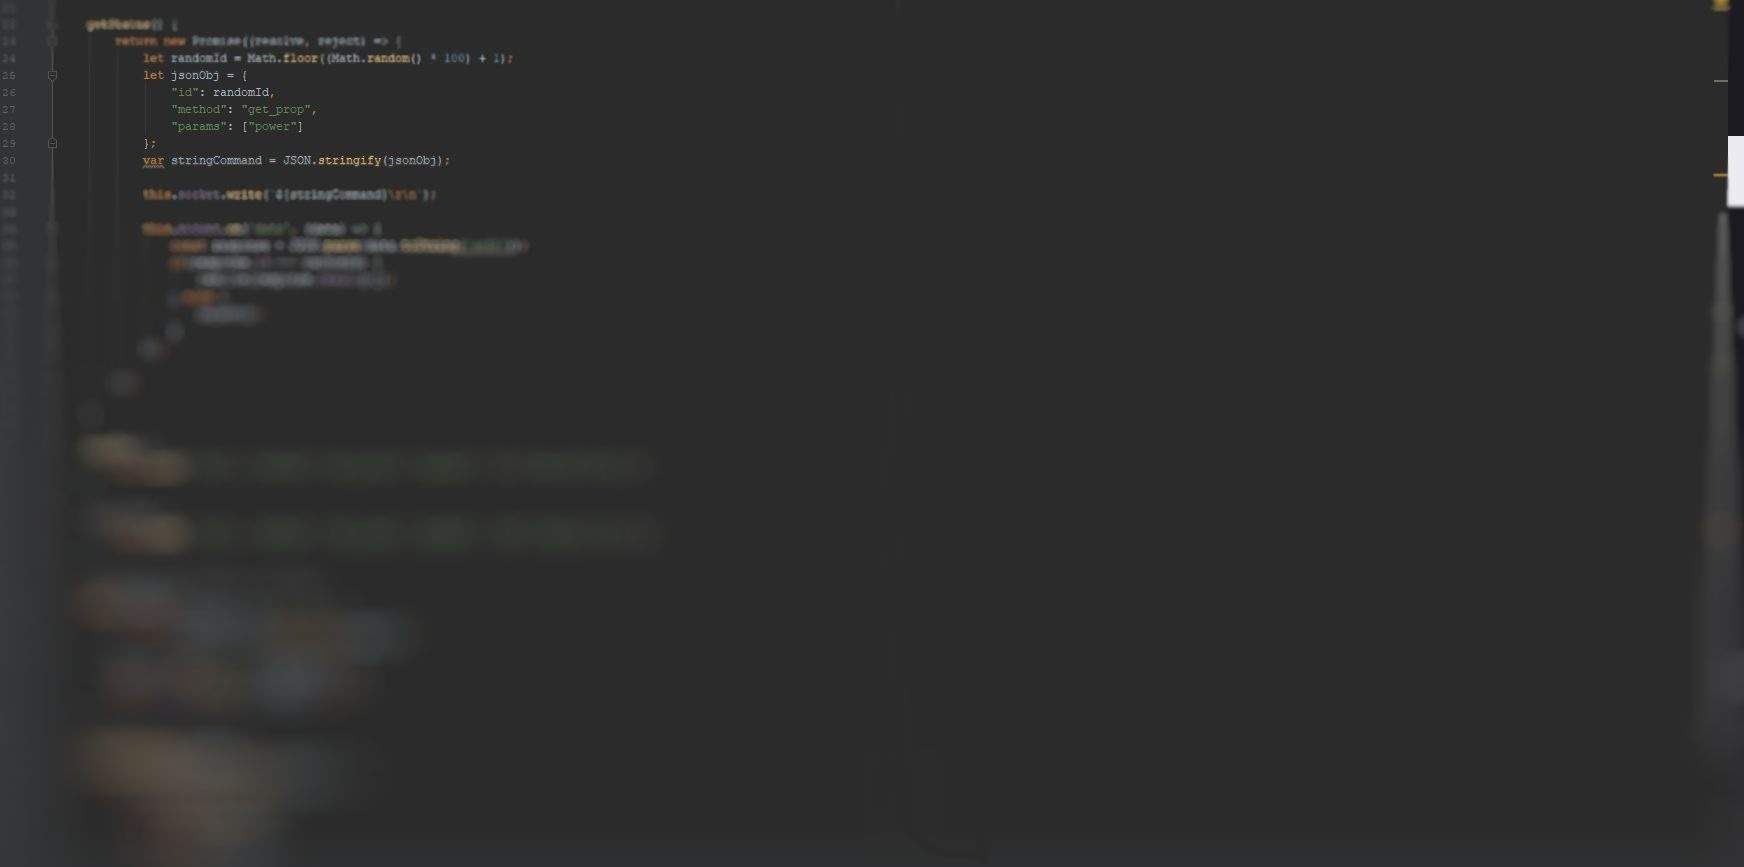
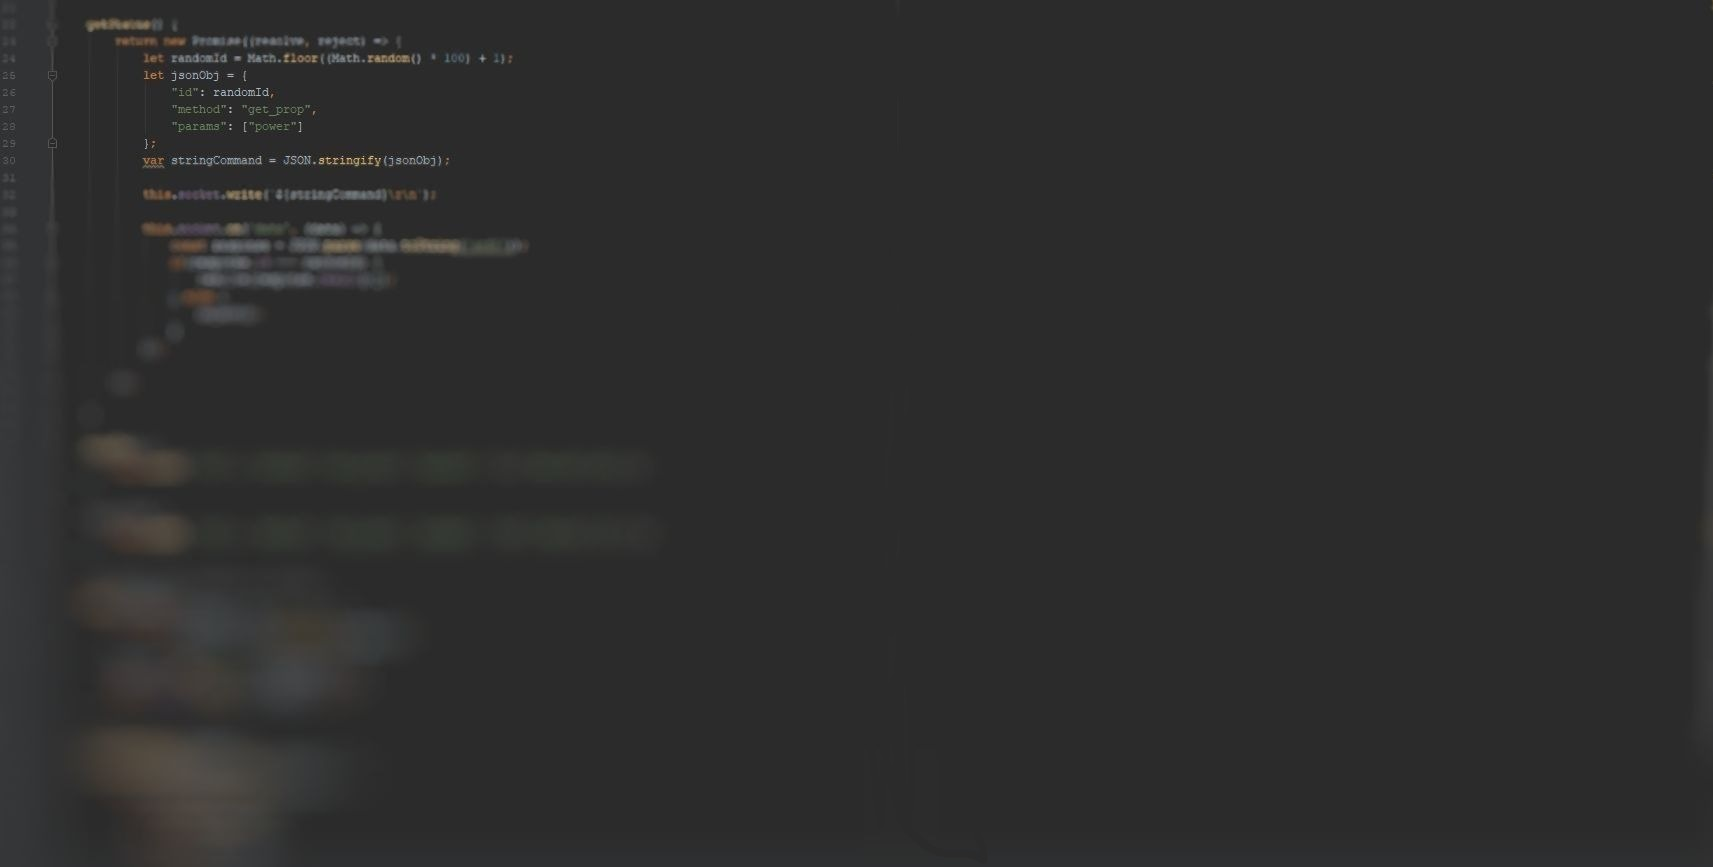
trying to fix the programming image not working on published github site

diff --git a/css/bootstrapCustom.css b/css/bootstrapCustom.css
@@ -28,7 +28,7 @@
 }
 
 .programming-jumbotron{
-	background-image: linear-gradient(rgba(0, 0, 0, 0.5),rgba(0, 0, 0, 0.5)), url(../images/code.jpg);
+	background-image: linear-gradient(rgba(0, 0, 0, 0.5),rgba(0, 0, 0, 0.5)), url(../images/code.JPG);
 }
 
 .music-jumbotron{
